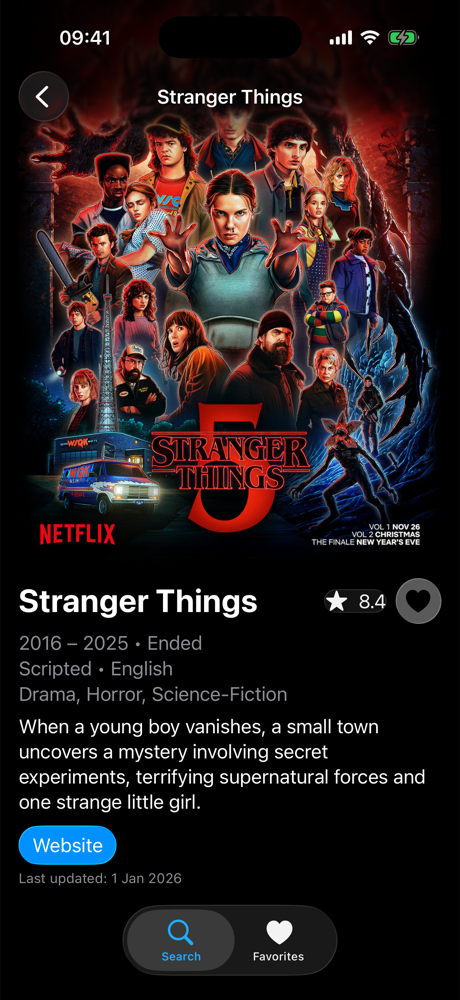
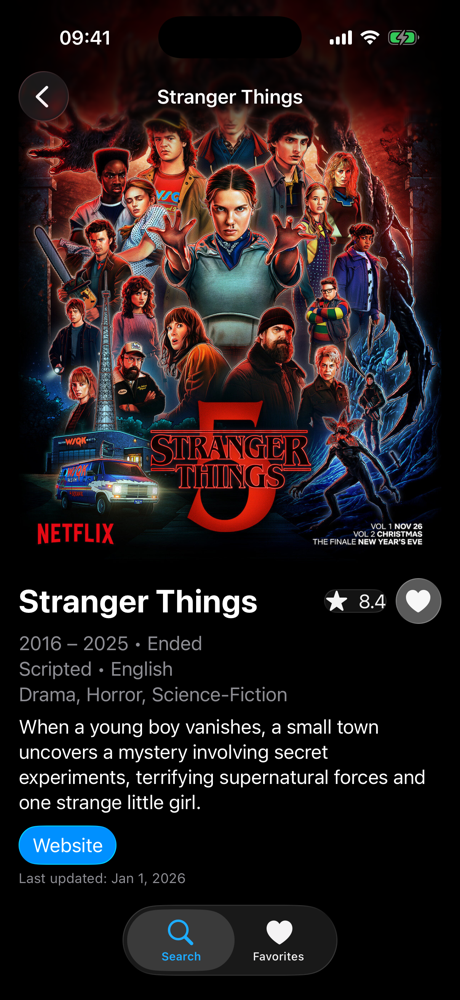
docs: align the README with the app
Improvement:
- The dark mode screenshot now shows the white heart.
- The README now says the view model has a default service.
- The README now says saved favorites use an in-memory database in tests.

diff --git a/README.md b/README.md
@@ -51,7 +51,7 @@ With SwiftData, simple reads and writes can stay in the views, since SwiftData k
 - **Concurrency (Xcode 26):** with the new `MainActor` default isolation, all code runs on the main thread, the one that updates the screen, unless marked otherwise. So the ViewModel needs no `@MainActor`, and the app passes Swift 6's strict concurrency checks.
 - **Loading and errors:** the ViewModel tracks loading and errors, so the screen shows a spinner while waiting and an error message when something fails.
 - **Transformer:** the API sends raw data, such as dates like "2016-07-15" and summaries with HTML tags. The Transformer turns it into the domain models the screens use: years like "2016 – 2025", a rating like "8.4", the summary as plain text, and a default when a field is missing. When the API changes, the screens don't have to.
-- **Dependency injection:** to make the ViewModel testable, it receives its service through a protocol instead of creating it, so tests can pass a fake one, called a mock.
+- **Dependency injection:** to make the ViewModel testable, its service goes through a protocol, with the real one as the default, so tests can pass a fake one, called a mock.
 
 ### Networking
 
@@ -73,7 +73,7 @@ Requires Xcode 26.5 or later. Open `TVMazeApp/TVMazeApp.xcodeproj`, run the app 
 ## Tests
 
 - **Swift Testing:** Apple's testing framework, newer than XCTest. `@Test` marks a test, `#expect` checks a result or an error, and `#require` stops a test early when something it needs is missing.
-- **Coverage:** the service, the ViewModel, the Transformer and the saved favorites are tested without internet, using mocks.
+- **Coverage:** the service, the ViewModel and the Transformer are tested with mocks, and the saved favorites with an in-memory database, all without internet.
 - **UI tests:** `XCUIAutomation` drives the real app through search and favorites using the live API, and `performAccessibilityAudit` checks the results screen. They're written in XCTest because Swift Testing doesn't support UI tests.
 - **Real API data:** a JSON file recorded from the real API, with one show fully filled and one with every optional field empty or missing, so decoding is checked against what the API really sends.
 
